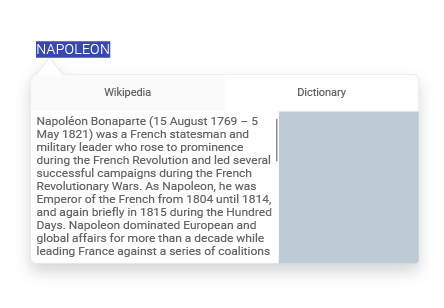
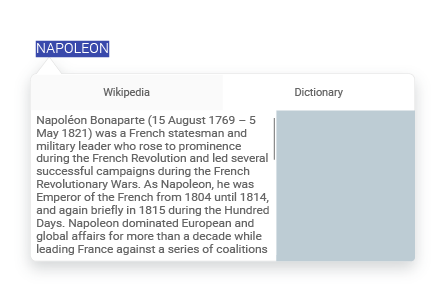
Edited Markdown

diff --git a/README.md b/README.md
@@ -13,7 +13,7 @@ It's focused to be a handy chrome extension to fast and efficiently search terms
 When the user selects a text, it will make a quick call to Wikipedia API and return the results as a popup below the selection.
 
  <p align="center">
-    <img style="max-width: 50%;" src="https://github.com/g-nogueira/WikiLink/blob/master/public/images/readme/popup-demo.svg" alt="">
+    <img style="max-width: 50%;" src="https://github.com/g-nogueira/WikiLink/blob/master/public/images/readme/main.png" alt="">
  </p>
  
 After the user have selected an option, it will be displayed there, too. If he wants to see the wiktionary definitions, tha tab [Dictionary] can be clicked.
